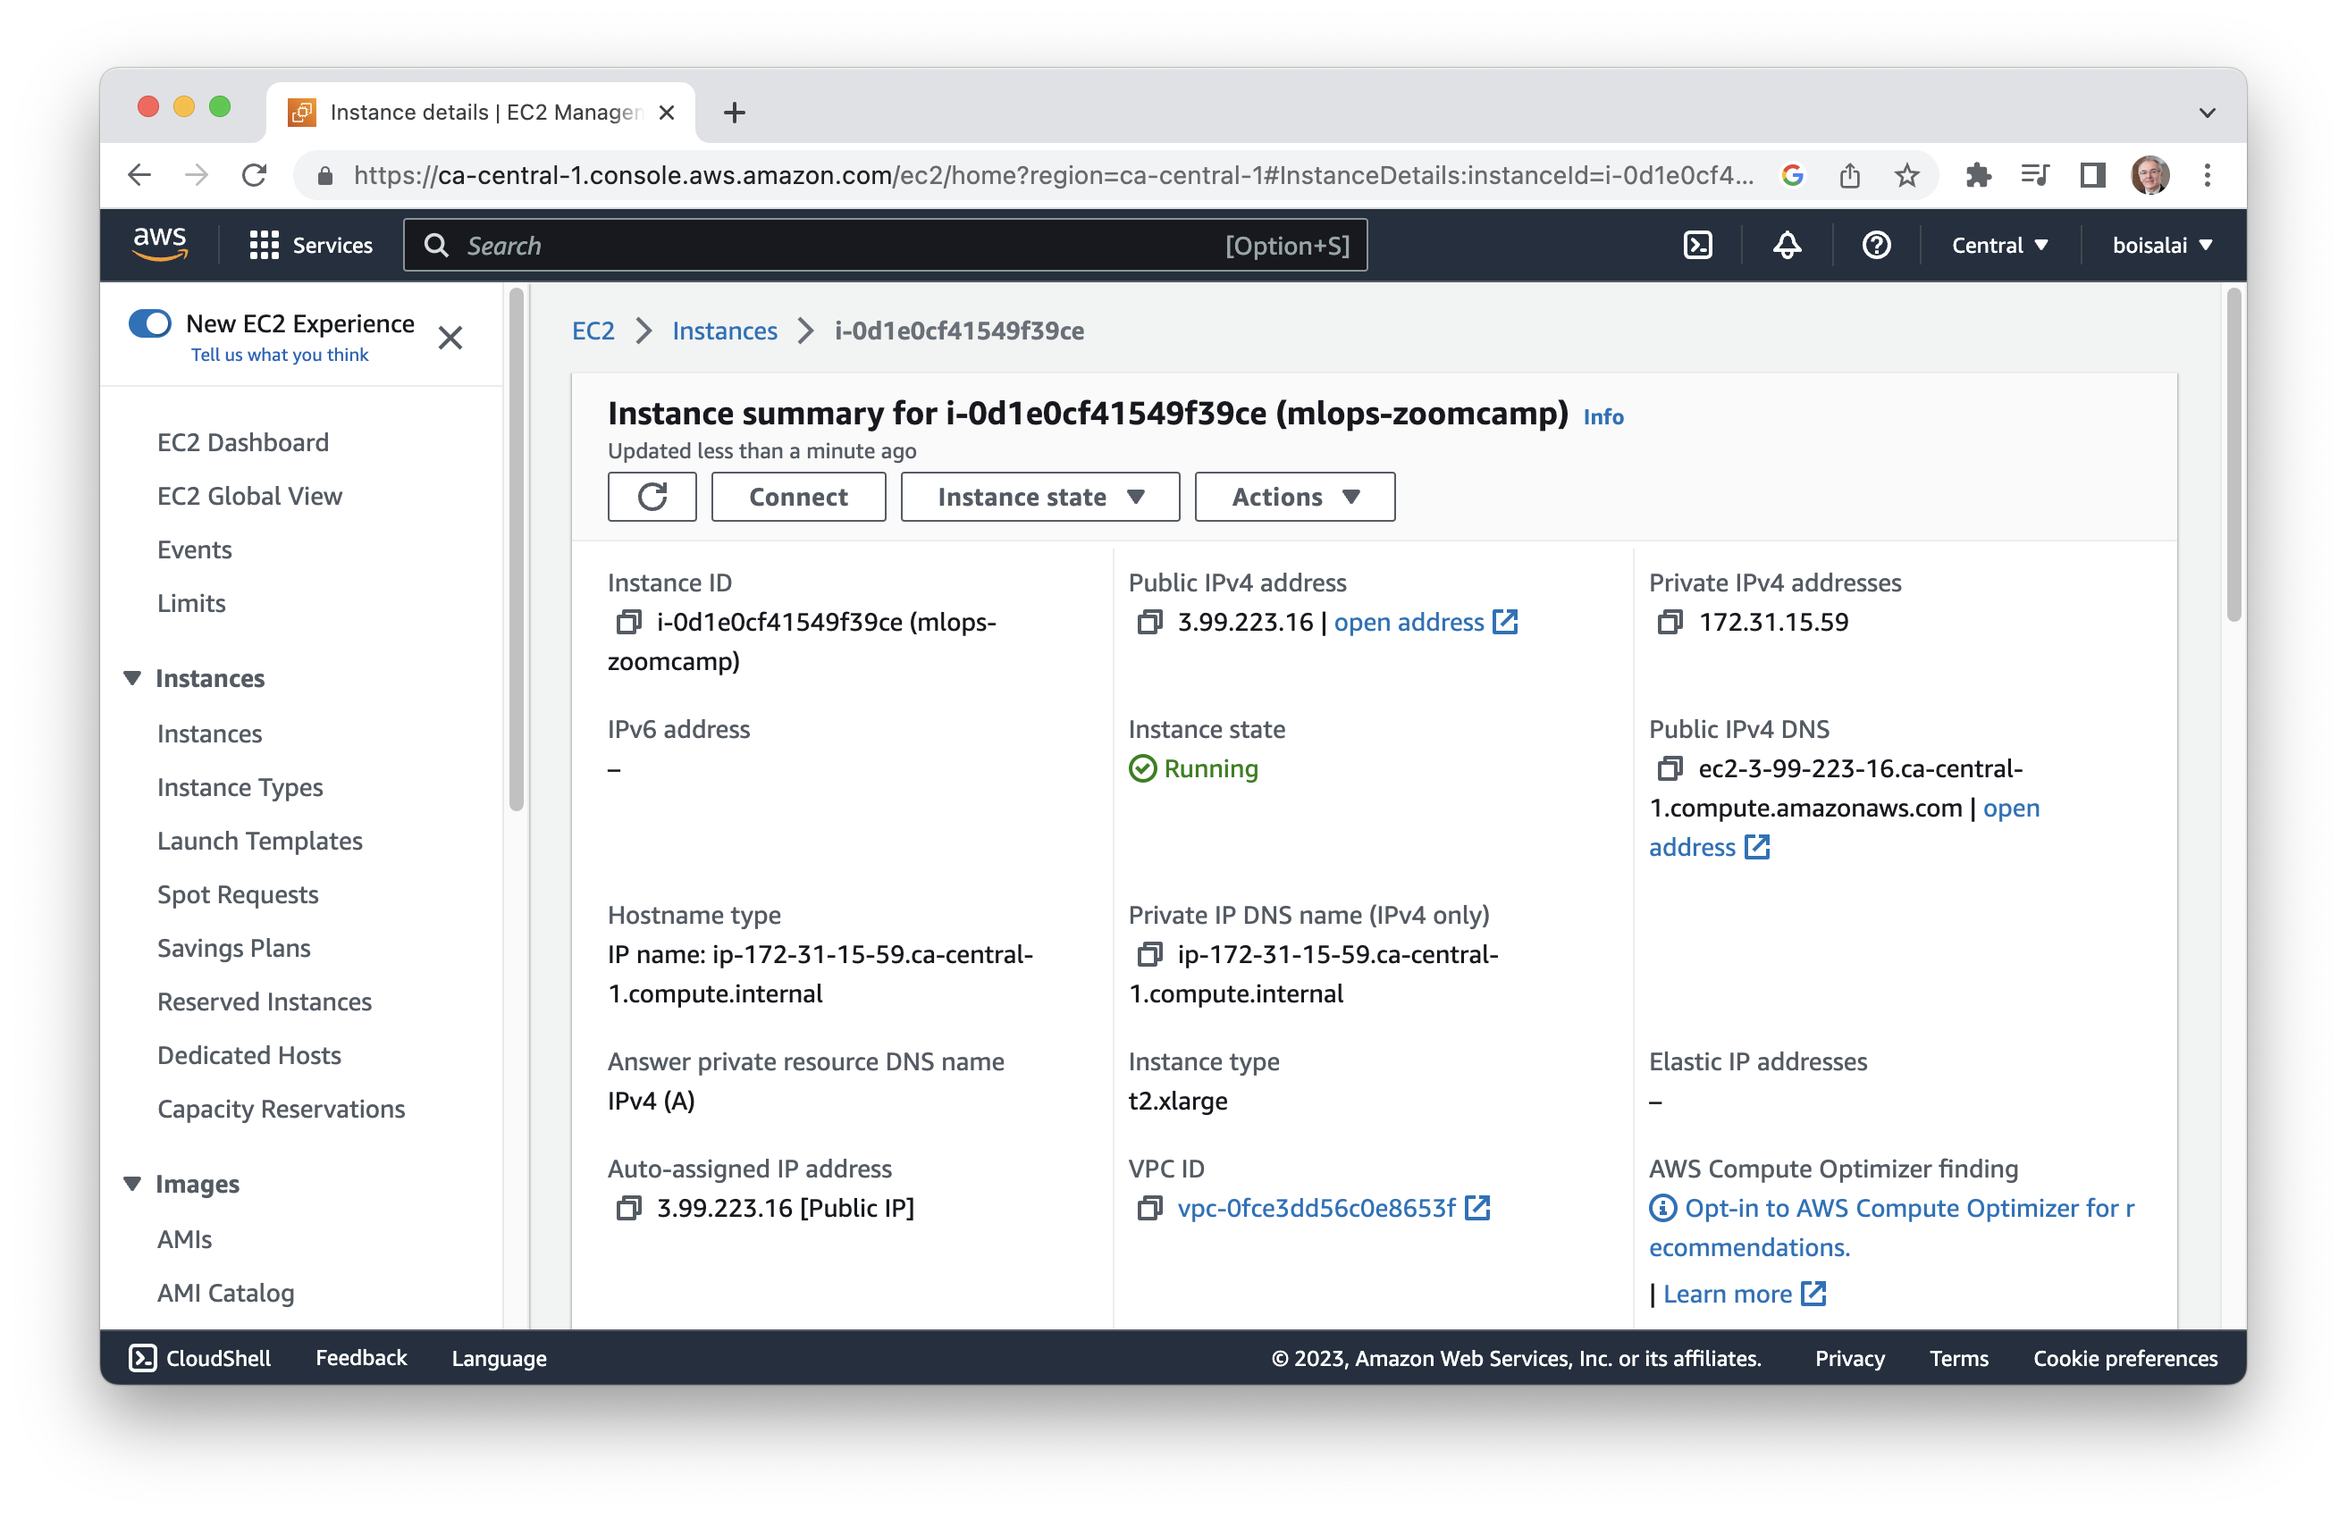
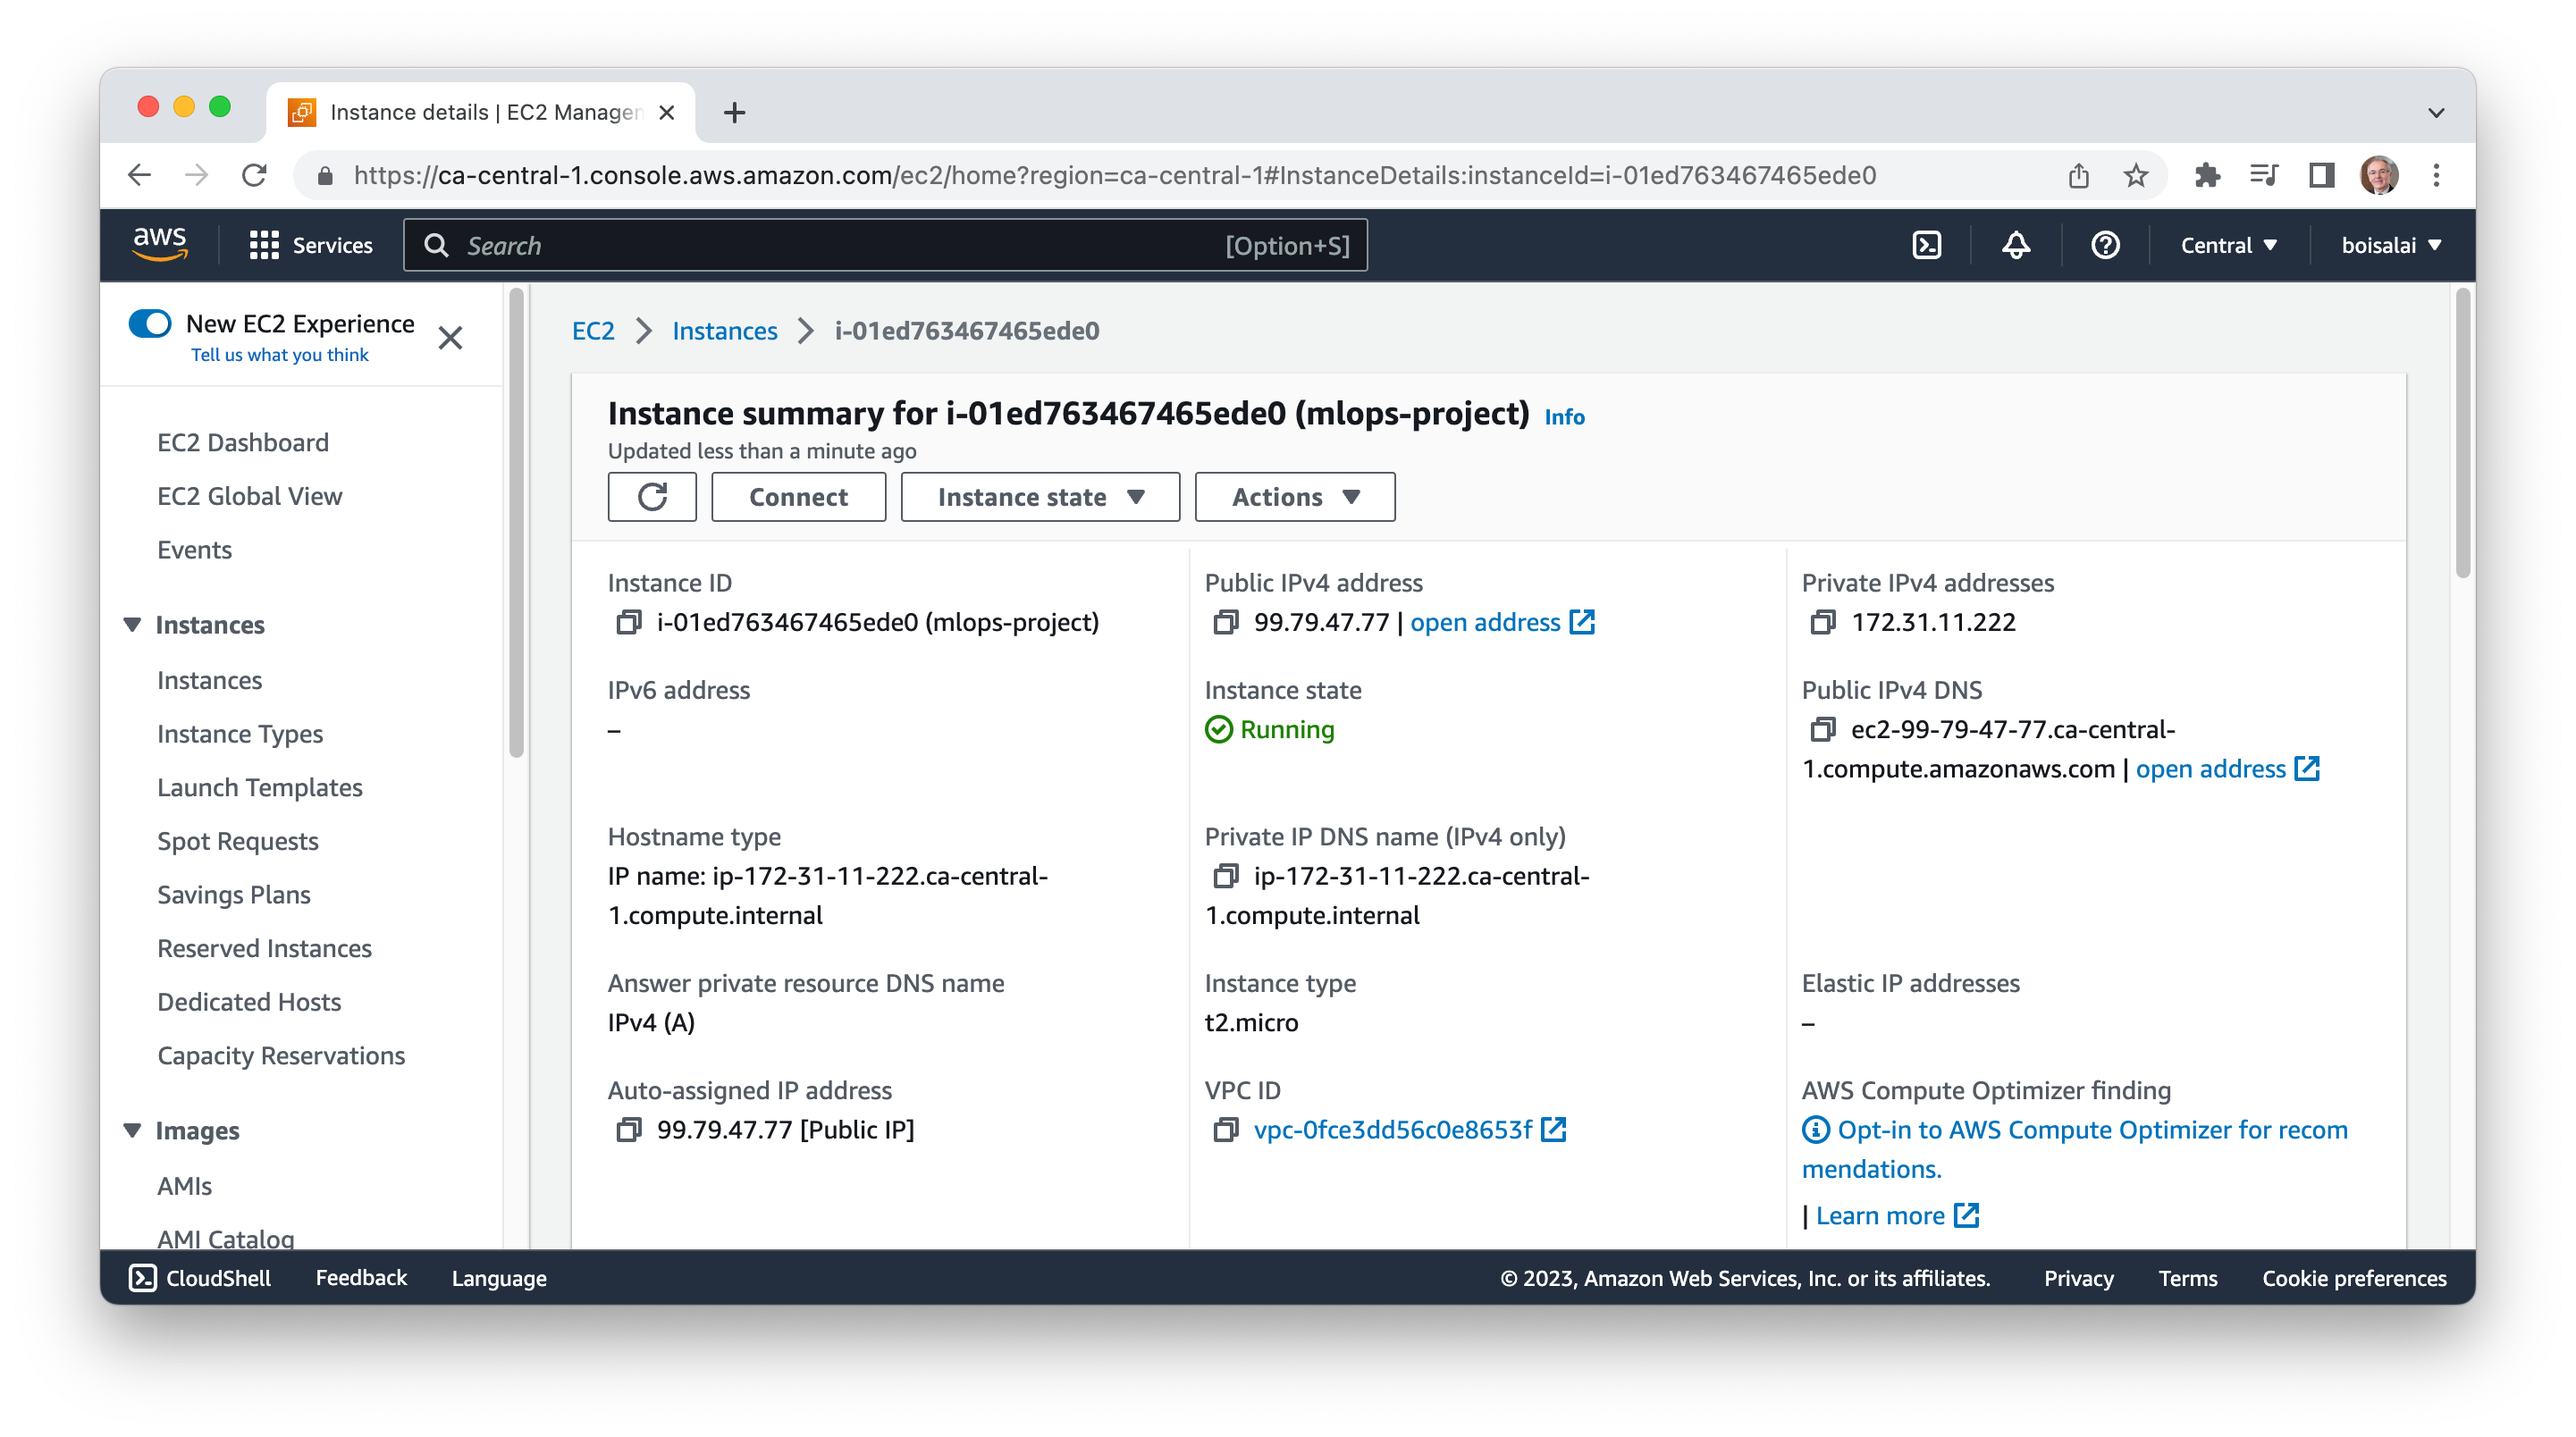
commit Thu 13 Jul 2023 10:24:46 EDT

diff --git a/README.md b/README.md
@@ -54,7 +54,7 @@ You should see something like this.
 
 ![MLOps](images/s06.png)
 
-Take note of the public IP address (mine is `3.99.223.16`).
+Take note of the **Public IPv4 address** (mine is `99.79.47.77`).
 
 ### Step 3: Connect local machine to the EC2 instance
 
